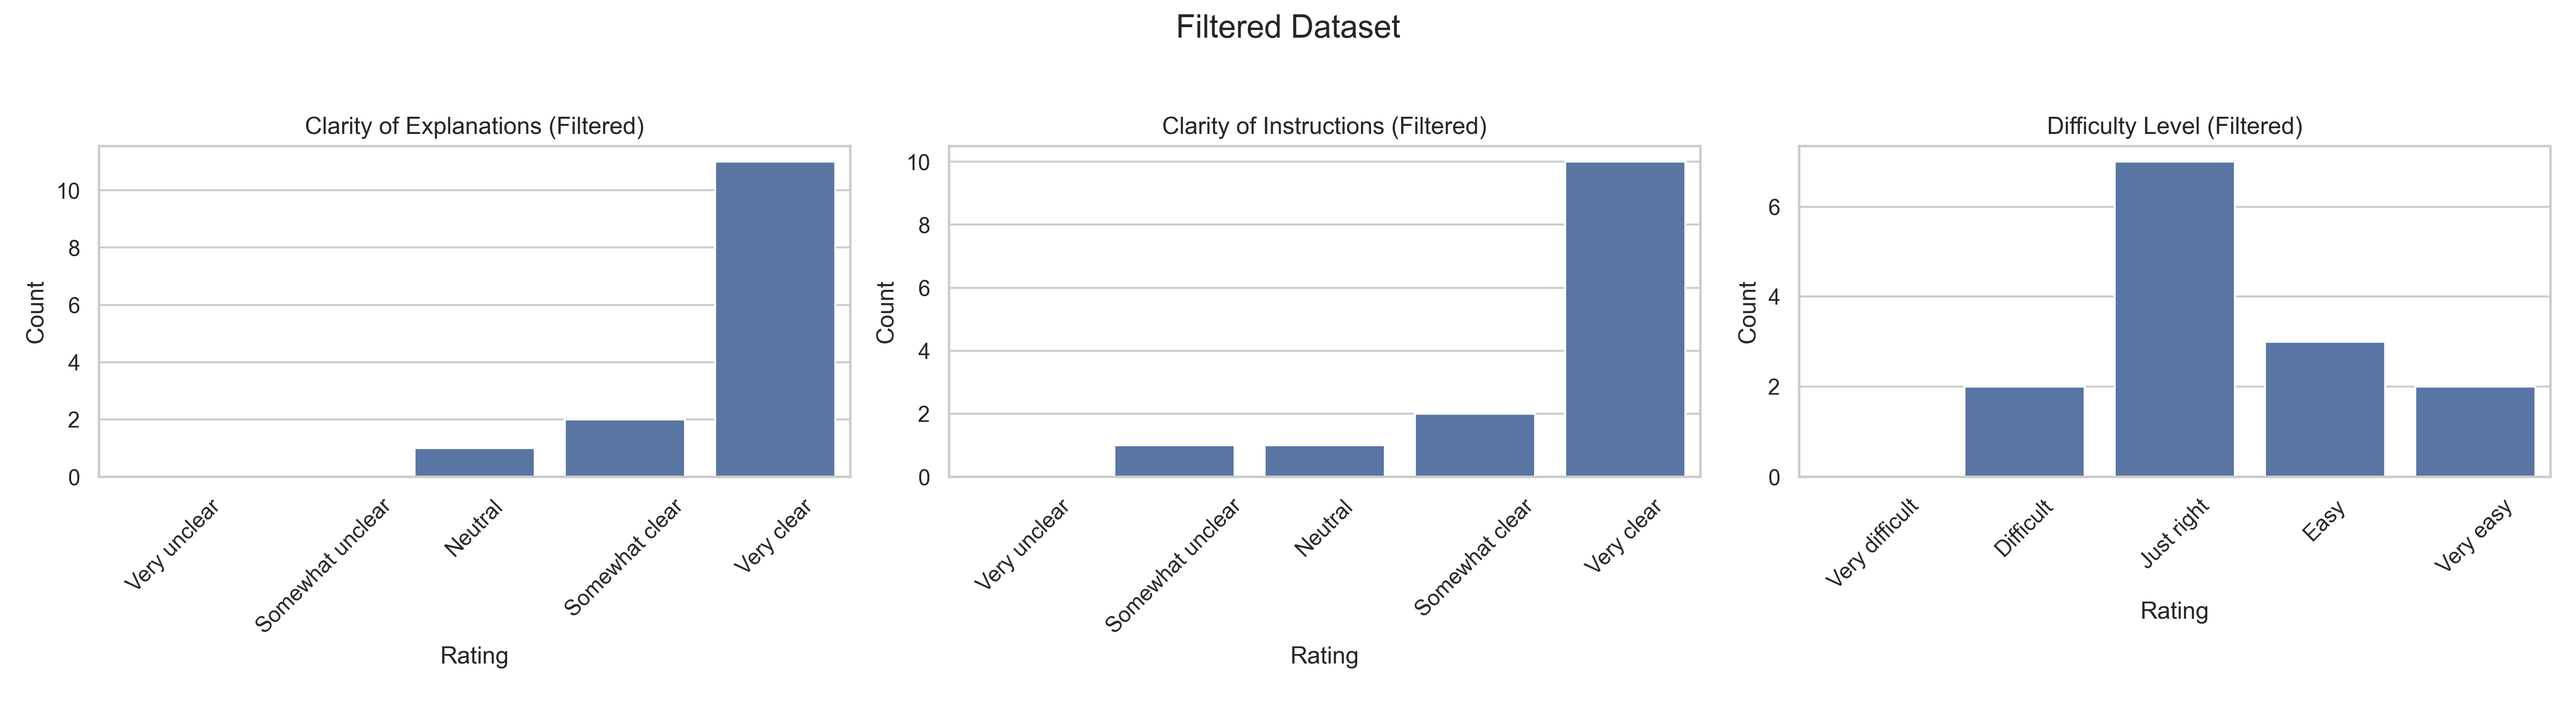
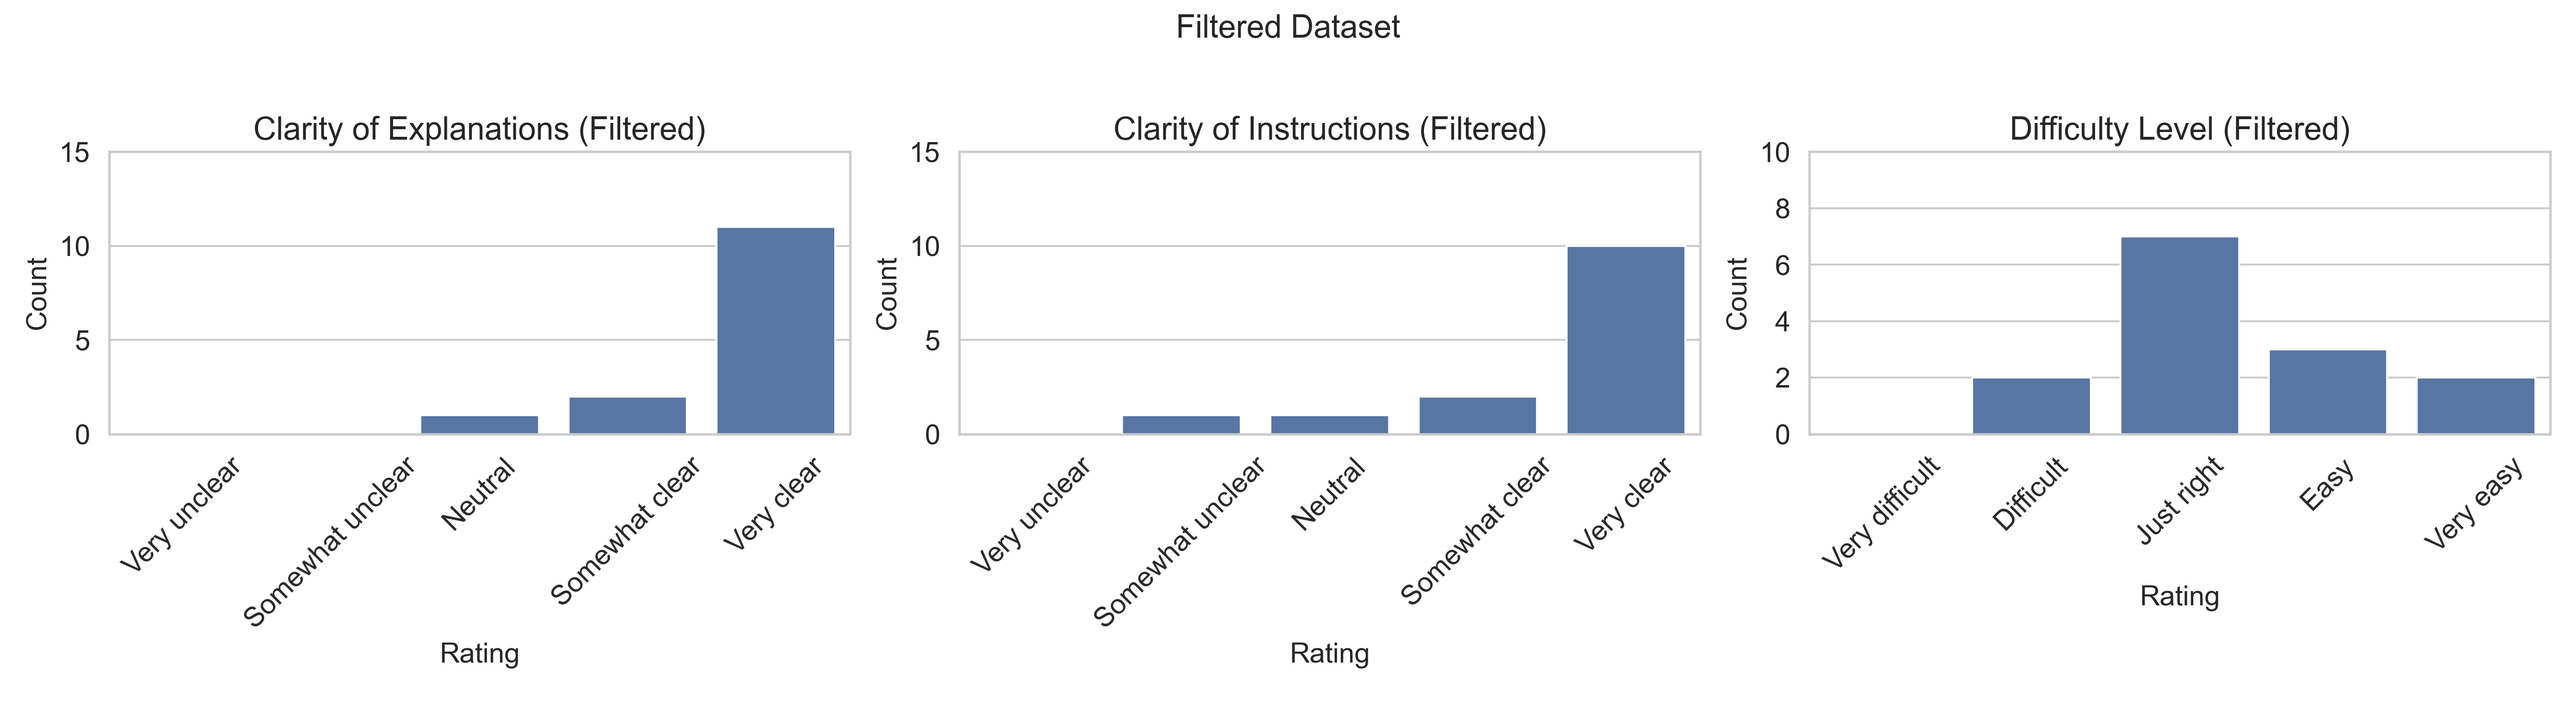
fix: make graph same y range

diff --git a/results_analysis/analysis.py b/results_analysis/analysis.py
@@ -18,25 +18,31 @@ def plot_ratings(data, title, filename, suffix=''):
     sns.countplot(ax=axes[0],
                   x=data['How would you rate the overall clarity of the explanations provided in the exercises?'],
                   order=clarity_order)
-    axes[0].set_title('Clarity of Explanations' + suffix)
-    axes[0].set_xlabel('Rating')
-    axes[0].set_ylabel('Count')
-    axes[0].tick_params(axis='x', rotation=45)
+    axes[0].set_title('Clarity of Explanations' + suffix, fontsize=16)
+    axes[0].set_xlabel('Rating', fontsize=14)
+    axes[0].set_ylabel('Count', fontsize=14)
+    axes[0].set_ylim(0, 15)
+    axes[0].tick_params(axis='x', rotation=45, labelsize=14)
+    axes[0].tick_params(axis='y', labelsize=14)
 
     sns.countplot(ax=axes[1],
                   x=data['How would you rate the overall clarity of the instructions provided in the exercises?'],
                   order=clarity_order)
-    axes[1].set_title('Clarity of Instructions' + suffix)
-    axes[1].set_xlabel('Rating')
-    axes[1].set_ylabel('Count')
-    axes[1].tick_params(axis='x', rotation=45)
+    axes[1].set_title('Clarity of Instructions' + suffix, fontsize=16)
+    axes[1].set_xlabel('Rating', fontsize=14)
+    axes[1].set_ylabel('Count', fontsize=14)
+    axes[1].set_ylim(0, 15)
+    axes[1].tick_params(axis='x', rotation=45, labelsize=14)
+    axes[1].tick_params(axis='y', labelsize=14)
 
     sns.countplot(ax=axes[2], x=data['How would you rate the difficulty level of the exercises?'],
                   order=difficulty_order)
-    axes[2].set_title('Difficulty Level' + suffix)
-    axes[2].set_xlabel('Rating')
-    axes[2].set_ylabel('Count')
-    axes[2].tick_params(axis='x', rotation=45)
+    axes[2].set_title('Difficulty Level' + suffix, fontsize=16)
+    axes[2].set_xlabel('Rating', fontsize=14)
+    axes[2].set_ylabel('Count', fontsize=14)
+    axes[2].set_ylim(0, 10)
+    axes[2].tick_params(axis='x', rotation=45, labelsize=14)
+    axes[2].tick_params(axis='y', labelsize=14)
 
     plt.tight_layout(rect=[0, 0.03, 1, 0.95])
 
